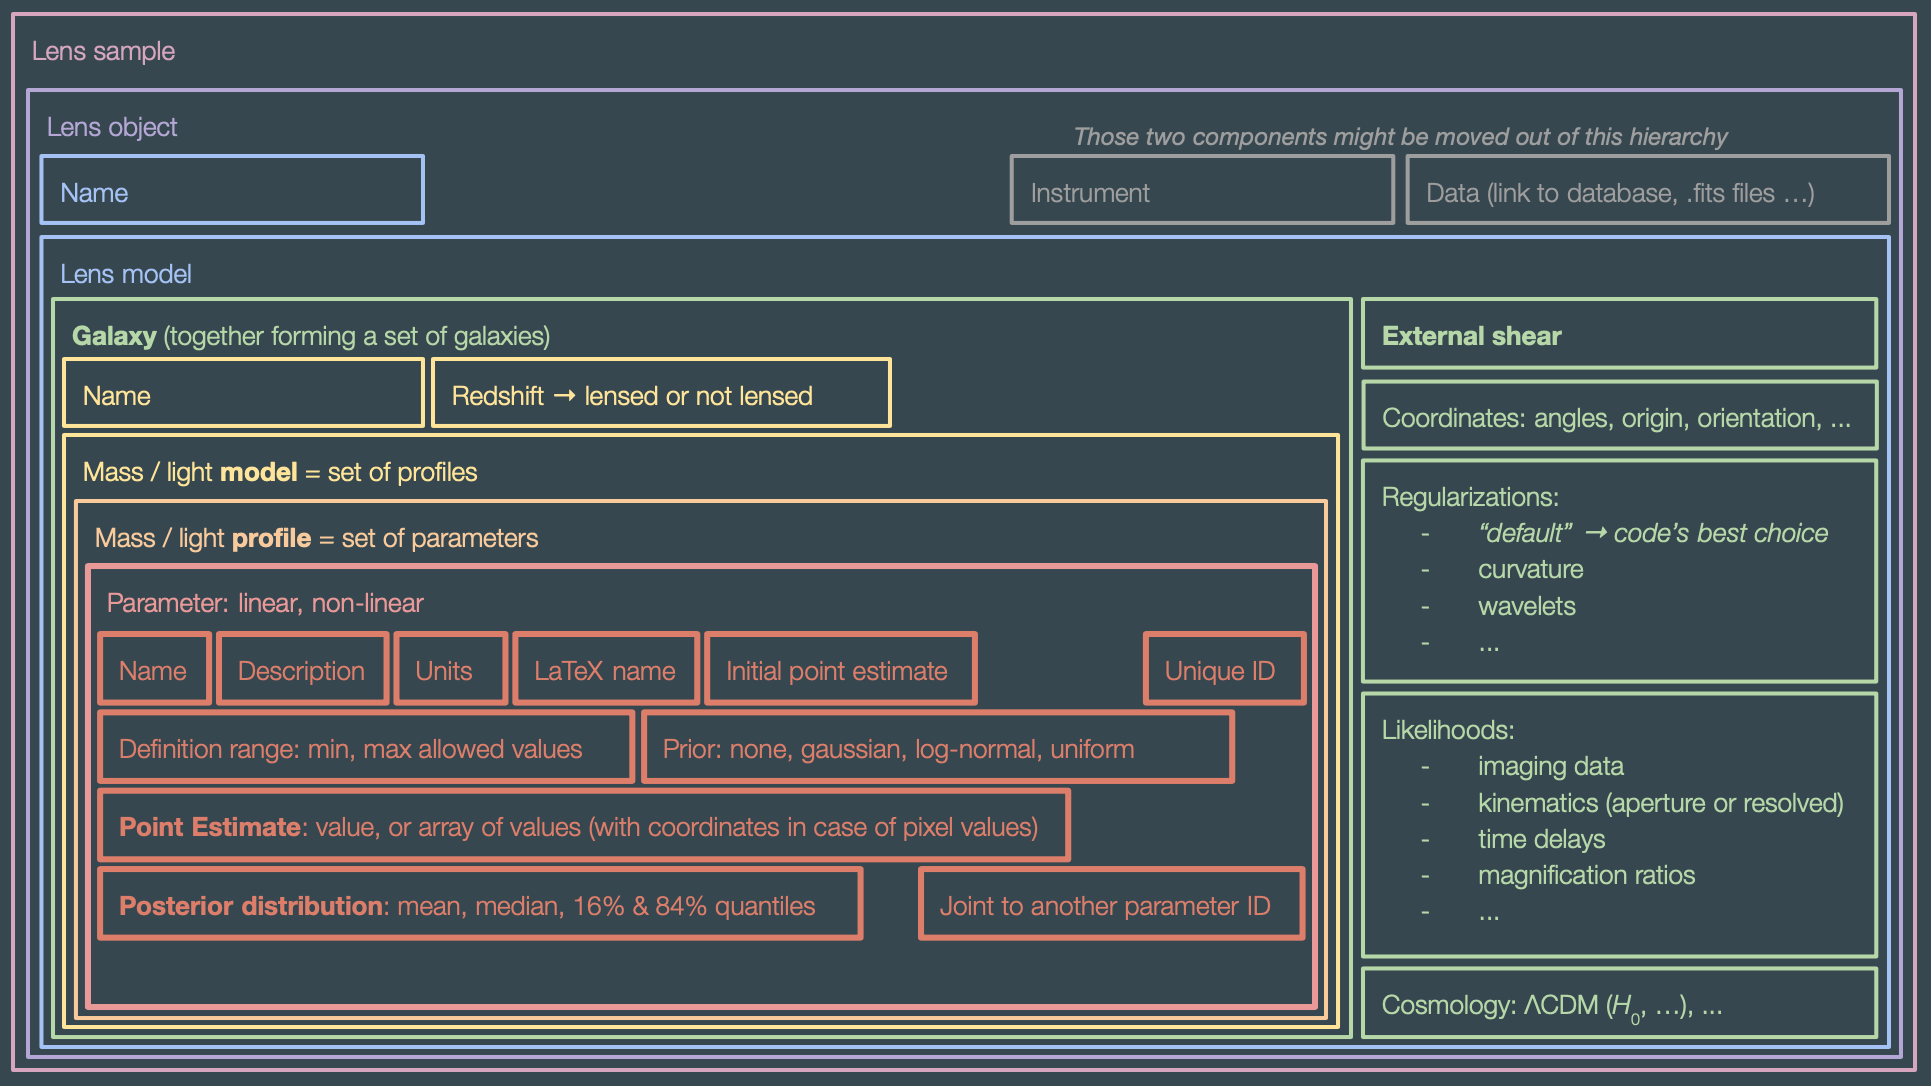
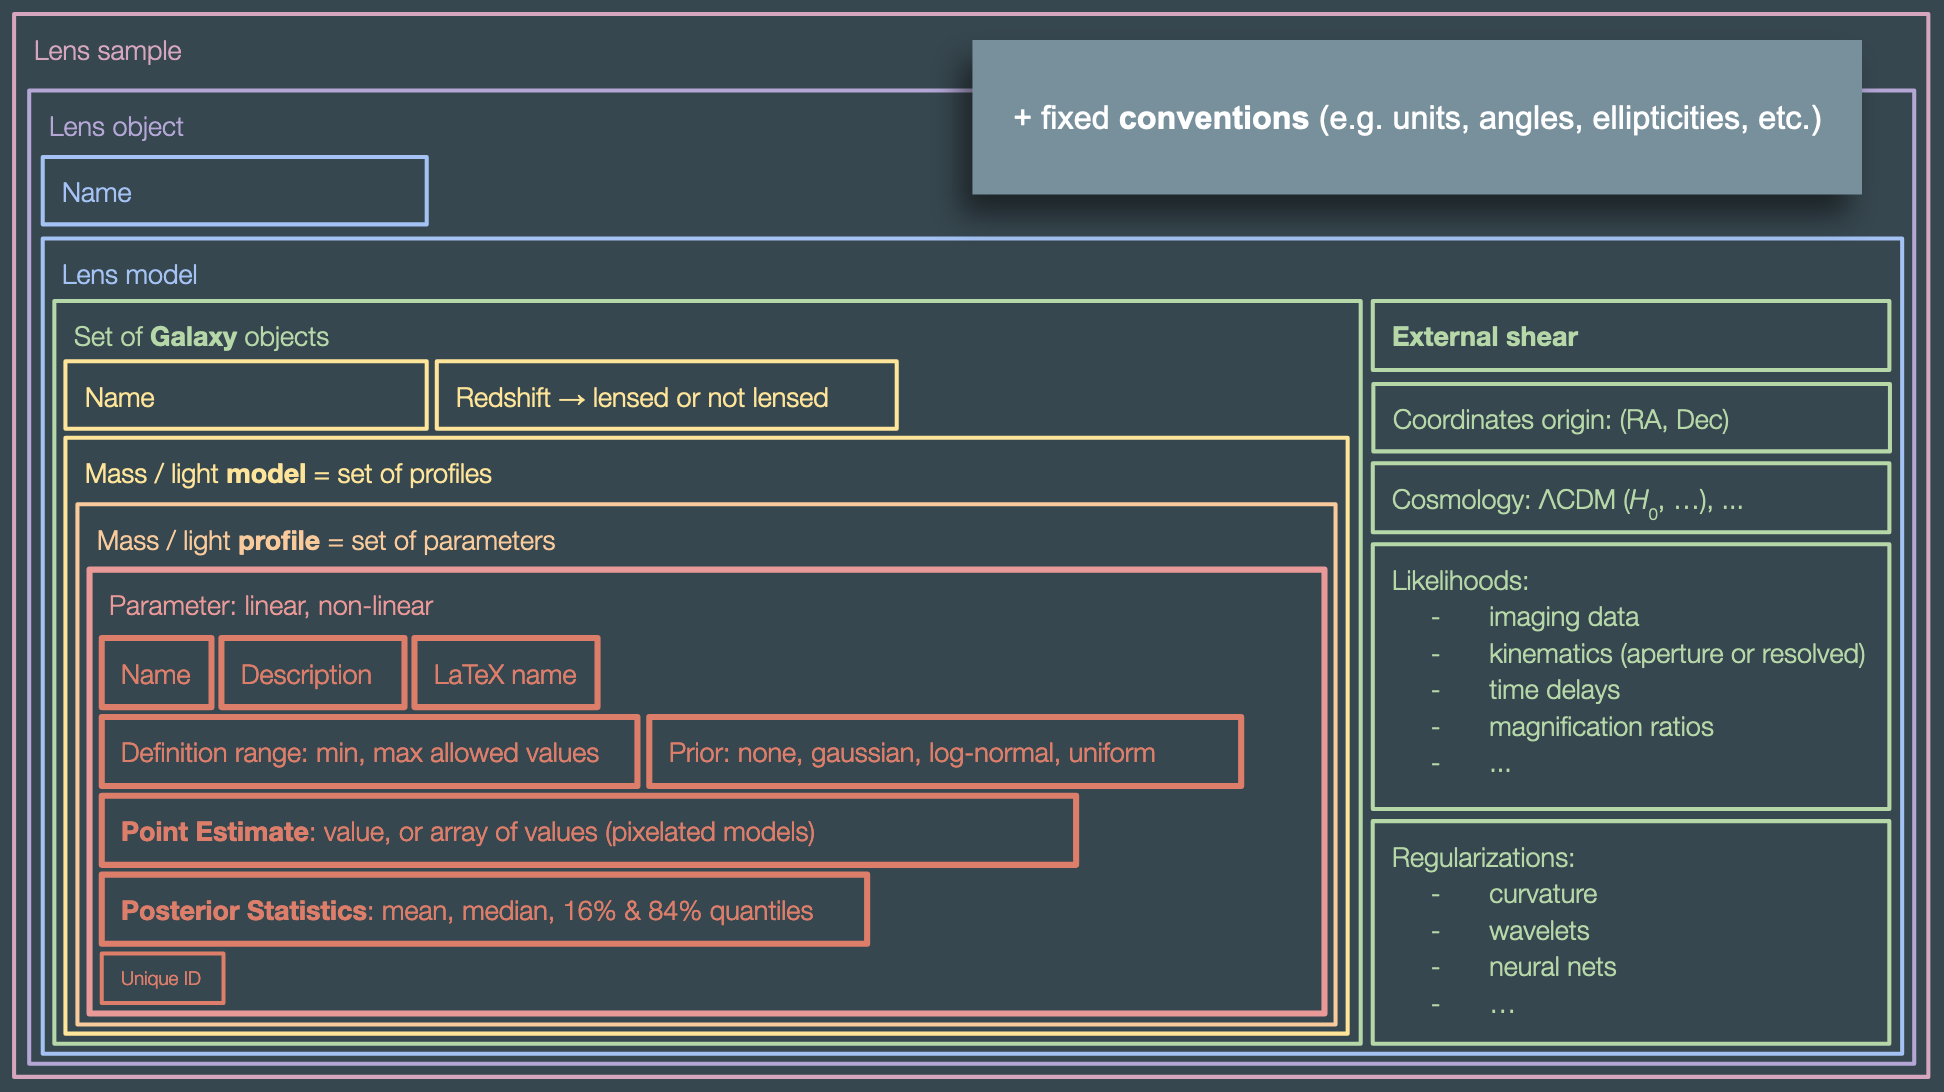
Update README

Changed region(s): [[0.0, 0.0304, 0.9943, 1.0], [0.6836, 0.395, 0.7147, 0.4254]]

diff --git a/README.md b/README.md
@@ -9,25 +9,21 @@ The first implementation takes the form of collection of Python classes, organis
 
 Within this framework, the following conventions are fixed and must be adopted when filling template files:
 
-- **coordinates**:
-    - the field-of-view (i.e. min/max values in each direction) is defined from pixel centers
-    - origin at center of the imaging data cutout
-    - RA increasing along x direction
-    - Dec increasing along y direction
-    - units: arcseconds
+- **Units**:
+    - Lengths, radii, angular positions, widths, heights: arcseconds
+    - Position angles and orientations: degrees, by default in the interval (-90, +90]
 
-- **position angles**:
-    - East-of-North
-    - units: degrees
+- **Coordinate system**:
+    - Standard cartesian coordinate system: RA decreasing along *x*, Dec increasing along *y*
+    - The origin is a unique (absolute) sky coordinate (RA, Dec)
+    - Position angles defined counter-clockwise from positive *y* axis (i.e. East-of-North). For elliptical profiles, the angle is measured based on the major-axis of the ellipse.
 
-- **external shear**:
-    - defined by strength and position angle
+- **Standard quantities**:
+    - effective radii (e.g. Einstein radius, half-light radius) are expressed along the intermediate axis, as the product average of semi-major and semi-minor axis, i.e. _r_ = sqrt(_ab_)
 
-- **radii** (e.g. Einstein radii, half-ligh radii, etc.):
-    - intermediate-axis
-    - units: arcseconds
+- **Other conventions**: TBD.
 
 
-## Current hierarchy
+## Overview of the JSON template hierarchy
 
 ![API Hierarchy](images/api_stacked_hierarchy.png "API Hierarchy")
